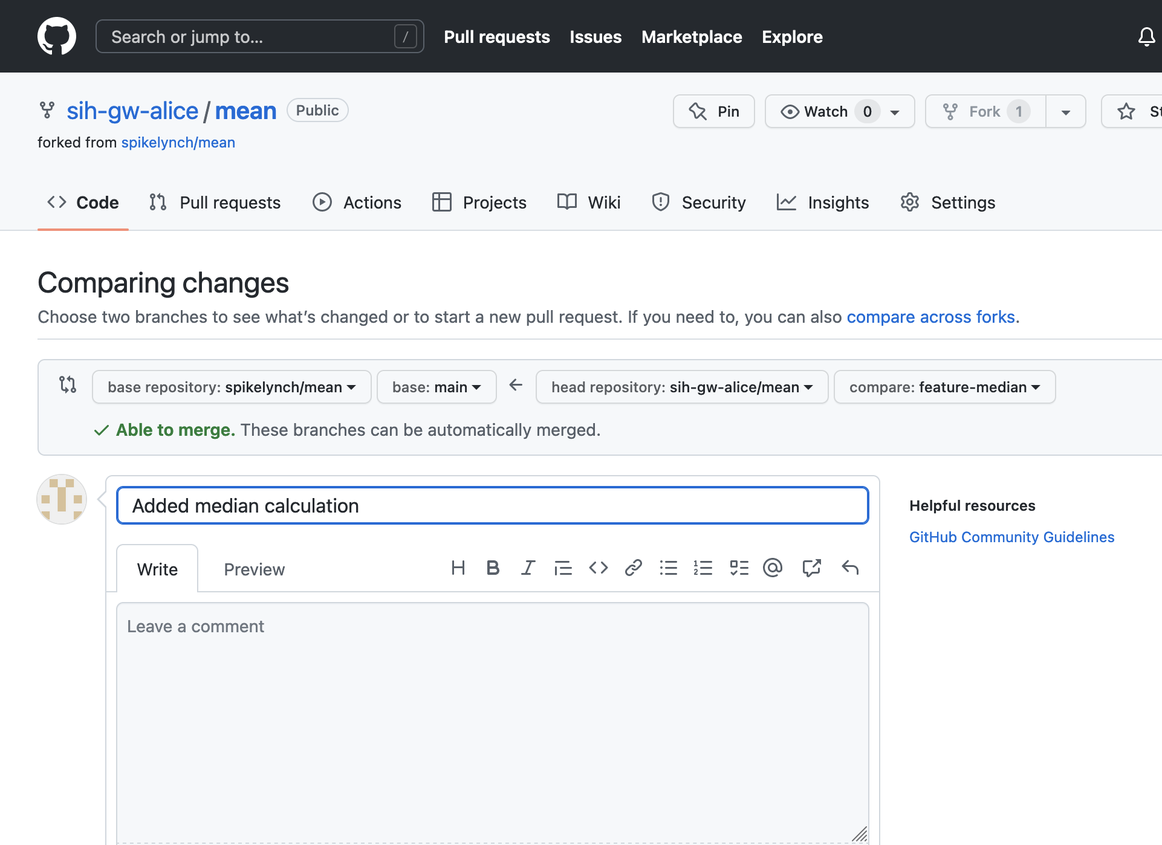
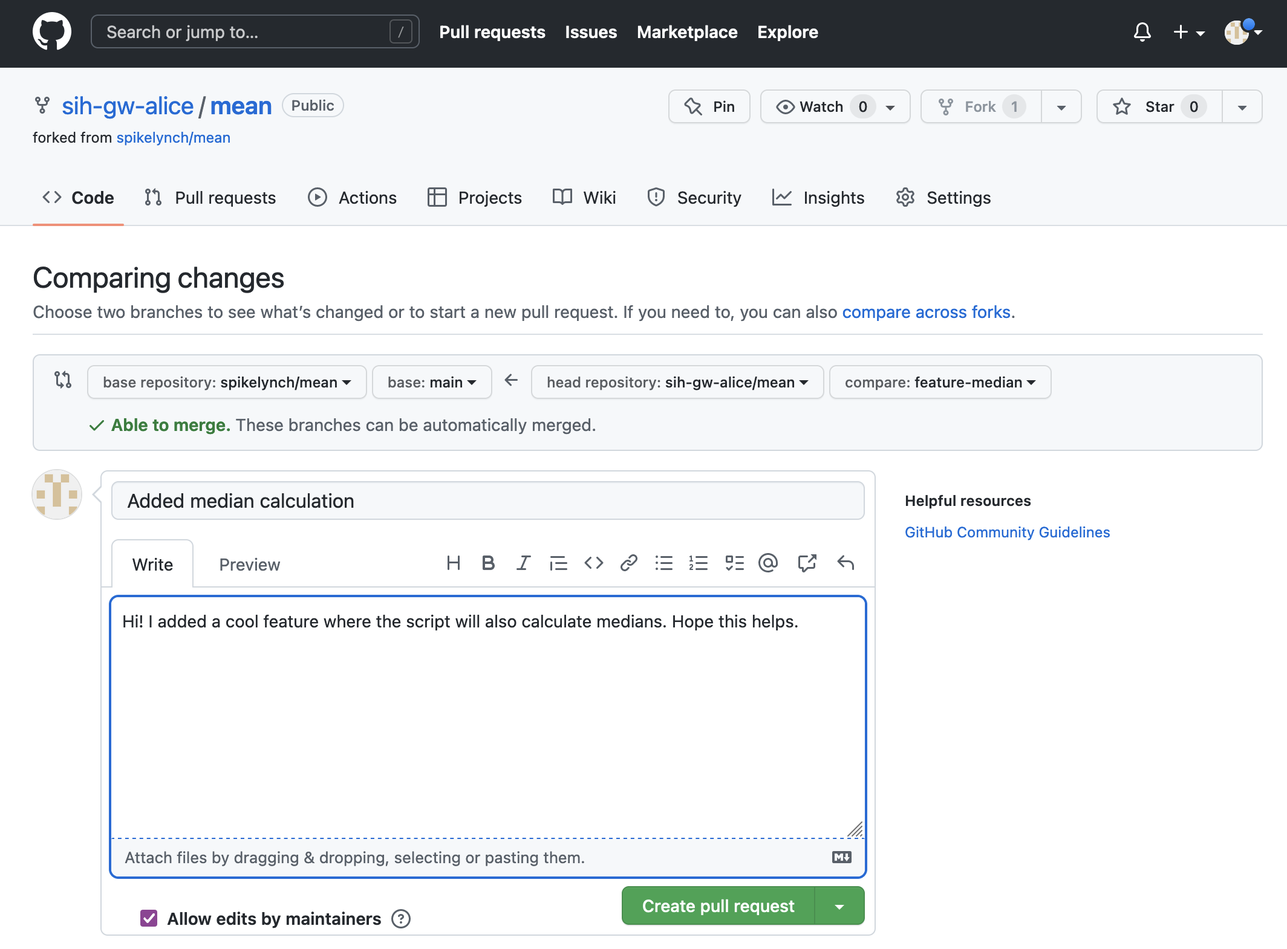
Fleshed out the text of the pull requests chapter and updated a screenshot which had the controls cropped out

diff --git a/docs/notebooks/13_pull_requests.html b/docs/notebooks/13_pull_requests.html
@@ -234,7 +234,6 @@ code span.wa { color: #60a0b0; font-weight: bold; font-style: italic; } /* Warni
   <li><a href="#questions" id="toc-questions" class="nav-link" data-scroll-target="#questions">Questions</a></li>
   <li><a href="#objectives" id="toc-objectives" class="nav-link" data-scroll-target="#objectives">Objectives</a></li>
   <li><a href="#key-points" id="toc-key-points" class="nav-link" data-scroll-target="#key-points">Key Points</a></li>
-  <li><a href="#outline-of-this-section" id="toc-outline-of-this-section" class="nav-link" data-scroll-target="#outline-of-this-section">Outline of this section</a></li>
   </ul></li>
   </ul>
 </nav>
@@ -268,117 +267,104 @@ code span.wa { color: #60a0b0; font-weight: bold; font-style: italic; } /* Warni
 </section>
 <p>We’ve just seen a branching workflow for allowing collaboration between a team of developers, each of whom has a local repo and who share a repo on GitHub.</p>
 <p>In this section, we’ll step through what’s called a fork-based workflow, which is a way to contribute code to another team’s project.</p>
-<p>A fork-based workflow has the following steps:</p>
-<ol type="1">
-<li><p>You fork the projects repo on GitHub - this is similar to cloning, but you’re creating a clone of the repo in your own GitHub account, not on your local machine.</p></li>
-<li><p>You create a local copy of your fork of the project</p></li>
-<li><p>You create a branch on your repo where you’ll work on the changes that you want to contribute</p></li>
-<li><p>You push your changes to your remote copy of the project’s repo</p></li>
-<li><p>On GitHub, you create a pull request for the maintainer of the original project</p></li>
-</ol>
-<p>It’s called a pull request because you’re asking the maintainer to pull your contribution into their version of the project.</p>
-<p>After you’ve made the pull request, the maintainer can accept it straight away, or start a form of collaboration to talk about the changes - this can take the form of a code review. We won’t have time to cover that in this workshop, but it’s a very common form of quality control for open source projects, and is also used within teams.</p>
-<section id="outline-of-this-section" class="level3">
-<h3 class="anchored" data-anchor-id="outline-of-this-section">Outline of this section</h3>
-<p><em>Note: check whether Bob will already have write access to Alice’s repo?</em></p>
-<ol type="1">
-<li>Bob creates a fork it</li>
-</ol>
+<p>We’ll do this exercise in pairs again, as we did for the first GitHub exercise, but this time we’ll imagine that Bob and Alice aren’t on the same team - instead, Bob wants to contribute a new feature to the <code>mean.py</code> script.</p>
+<p>Because Bob’s not part of Alice’s team, he won’t have write access to her repository, so he’ll have to create his own.</p>
+<p>Forking is the name for this process. It’s essentially the same as a clone, but it’s all happening on GitHub’s servers.</p>
+<p>To do this, Bob needs to visit Alice’s repository on GitHub, and click on the “Fork” button on the top right.</p>
 <div class="quarto-figure quarto-figure-center">
 <figure class="figure">
 <p><img src="../fig/pr01-fork-repository.png" class="img-fluid figure-img"></p>
 <p></p><figcaption class="figure-caption">Creating a Pull Request (Step 1)</figcaption><p></p>
 </figure>
 </div>
+<p>This will create a new version of the <code>mean</code> repository in Bob’s GitHub account</p>
 <div class="quarto-figure quarto-figure-center">
 <figure class="figure">
 <p><img src="../fig/pr02-new-fork.png" class="img-fluid figure-img"></p>
 <p></p><figcaption class="figure-caption">Creating a Pull Request (Step 2)</figcaption><p></p>
 </figure>
 </div>
-<ol start="2" type="1">
-<li>Bob starts a branch called <code>feature-median</code></li>
-</ol>
-<div class="sourceCode" id="cb1"><pre class="sourceCode sh code-with-copy"><code class="sourceCode bash"><span id="cb1-1"><a href="#cb1-1" aria-hidden="true" tabindex="-1"></a><span class="fu">git</span> checkout <span class="at">-b</span> feature-median</span></code><button title="Copy to Clipboard" class="code-copy-button"><i class="bi"></i></button></pre></div>
-<div class="sourceCode" id="cb2"><pre class="sourceCode abc code-with-copy"><code class="sourceCode abc"><span id="cb2-1"><a href="#cb2-1" aria-hidden="true" tabindex="-1"></a>Switched to a new branch 'feature-median'</span></code><button title="Copy to Clipboard" class="code-copy-button"><i class="bi"></i></button></pre></div>
-<ol start="3" type="1">
-<li>Bob makes a change to mean.py</li>
-</ol>
-<div class="sourceCode" id="cb3"><pre class="sourceCode sh code-with-copy"><code class="sourceCode bash"><span id="cb3-1"><a href="#cb3-1" aria-hidden="true" tabindex="-1"></a><span class="fu">nano</span> mean.py</span>
-<span id="cb3-2"><a href="#cb3-2" aria-hidden="true" tabindex="-1"></a><span class="fu">cat</span> mean.py</span></code><button title="Copy to Clipboard" class="code-copy-button"><i class="bi"></i></button></pre></div>
-<div class="sourceCode" id="cb4"><pre class="sourceCode abc code-with-copy"><code class="sourceCode abc"><span id="cb4-1"><a href="#cb4-1" aria-hidden="true" tabindex="-1"></a>import pandas as pd</span>
-<span id="cb4-2"><a href="#cb4-2" aria-hidden="true" tabindex="-1"></a>COLUMN=<span class="st">"red"</span></span>
-<span id="cb4-3"><a href="#cb4-3" aria-hidden="true" tabindex="-1"></a>dataframe = pd.read_csv<span class="dt">(</span><span class="st">"rgb.csv"</span><span class="dt">)</span></span>
-<span id="cb4-4"><a href="#cb4-4" aria-hidden="true" tabindex="-1"></a></span>
-<span id="cb4-5"><a href="#cb4-5" aria-hidden="true" tabindex="-1"></a>subset = dataframe<span class="ch">[</span>COLUMN<span class="ch">]</span></span>
-<span id="cb4-6"><a href="#cb4-6" aria-hidden="true" tabindex="-1"></a>print<span class="dt">(</span>subset.mean<span class="dt">())</span></span>
-<span id="cb4-7"><a href="#cb4-7" aria-hidden="true" tabindex="-1"></a>print<span class="dt">(</span>subset.median<span class="dt">())</span></span></code><button title="Copy to Clipboard" class="code-copy-button"><i class="bi"></i></button></pre></div>
-<div class="sourceCode" id="cb5"><pre class="sourceCode sh code-with-copy"><code class="sourceCode bash"><span id="cb5-1"><a href="#cb5-1" aria-hidden="true" tabindex="-1"></a><span class="fu">git</span> add mean.py</span>
-<span id="cb5-2"><a href="#cb5-2" aria-hidden="true" tabindex="-1"></a><span class="fu">git</span> commit mean.py <span class="at">-m</span> <span class="st">"Added median calculation"</span></span></code><button title="Copy to Clipboard" class="code-copy-button"><i class="bi"></i></button></pre></div>
-<div class="sourceCode" id="cb6"><pre class="sourceCode abc code-with-copy"><code class="sourceCode abc"><span id="cb6-1"><a href="#cb6-1" aria-hidden="true" tabindex="-1"></a><span class="ch">[</span>feature-median<span class="ch">]</span> f1ea0c1<span class="ch">]</span> Added median calculation</span>
-<span id="cb6-2"><a href="#cb6-2" aria-hidden="true" tabindex="-1"></a> 1 file changed, 2 insertions<span class="dt">(</span>+<span class="dt">)</span>, 2 deletions<span class="dt">(</span>-<span class="dt">)</span></span></code><button title="Copy to Clipboard" class="code-copy-button"><i class="bi"></i></button></pre></div>
-<ol start="5" type="1">
-<li>Bob pushes his change to GitHub</li>
-</ol>
-<div class="sourceCode" id="cb7"><pre class="sourceCode sh code-with-copy"><code class="sourceCode bash"><span id="cb7-1"><a href="#cb7-1" aria-hidden="true" tabindex="-1"></a><span class="fu">git</span> push</span></code><button title="Copy to Clipboard" class="code-copy-button"><i class="bi"></i></button></pre></div>
-<div class="sourceCode" id="cb8"><pre class="sourceCode abc code-with-copy"><code class="sourceCode abc"><span id="cb8-1"><a href="#cb8-1" aria-hidden="true" tabindex="-1"></a>fatal<span class="ch">:</span> The current branch feature-median has no upstream branch.</span>
-<span id="cb8-2"><a href="#cb8-2" aria-hidden="true" tabindex="-1"></a>To push the current branch and set the remote as upstream, use</span>
-<span id="cb8-3"><a href="#cb8-3" aria-hidden="true" tabindex="-1"></a></span>
-<span id="cb8-4"><a href="#cb8-4" aria-hidden="true" tabindex="-1"></a>    git push --set-upstream origin feature-median</span>
-<span id="cb8-5"><a href="#cb8-5" aria-hidden="true" tabindex="-1"></a></span>
-<span id="cb8-6"><a href="#cb8-6" aria-hidden="true" tabindex="-1"></a>To have this happen automatically for branches without a tracking</span>
-<span id="cb8-7"><a href="#cb8-7" aria-hidden="true" tabindex="-1"></a>upstream, see 'push.autoSetupRemote' in 'git help config'.</span></code><button title="Copy to Clipboard" class="code-copy-button"><i class="bi"></i></button></pre></div>
-<div class="sourceCode" id="cb9"><pre class="sourceCode sh code-with-copy"><code class="sourceCode bash"><span id="cb9-1"><a href="#cb9-1" aria-hidden="true" tabindex="-1"></a><span class="fu">git</span> push <span class="at">--set-upstream</span> origin feature-median</span></code><button title="Copy to Clipboard" class="code-copy-button"><i class="bi"></i></button></pre></div>
-<div class="sourceCode" id="cb10"><pre class="sourceCode abc code-with-copy"><code class="sourceCode abc"><span id="cb10-1"><a href="#cb10-1" aria-hidden="true" tabindex="-1"></a>Enumerating objects<span class="ch">:</span> 5, done.</span>
-<span id="cb10-2"><a href="#cb10-2" aria-hidden="true" tabindex="-1"></a>Counting objects<span class="ch">:</span> 100<span class="co">% (5/5), done.</span></span>
-<span id="cb10-3"><a href="#cb10-3" aria-hidden="true" tabindex="-1"></a>Delta compression using up to 12 threads</span>
-<span id="cb10-4"><a href="#cb10-4" aria-hidden="true" tabindex="-1"></a>Compressing objects<span class="ch">:</span> 100<span class="co">% (3/3), done.</span></span>
-<span id="cb10-5"><a href="#cb10-5" aria-hidden="true" tabindex="-1"></a>Writing objects<span class="ch">:</span> 100<span class="co">% (3/3), 311 bytes | 311.00 KiB/s, done.</span></span>
-<span id="cb10-6"><a href="#cb10-6" aria-hidden="true" tabindex="-1"></a>Total 3 <span class="dt">(</span>delta 2<span class="dt">)</span>, reused 0 <span class="dt">(</span>delta 0<span class="dt">)</span>, pack-reused 0</span>
-<span id="cb10-7"><a href="#cb10-7" aria-hidden="true" tabindex="-1"></a>remote<span class="ch">:</span> Resolving deltas<span class="ch">:</span> 100<span class="co">% (2/2), completed with 2 local objects.</span></span>
-<span id="cb10-8"><a href="#cb10-8" aria-hidden="true" tabindex="-1"></a>remote<span class="ch">:</span></span>
-<span id="cb10-9"><a href="#cb10-9" aria-hidden="true" tabindex="-1"></a>remote<span class="ch">:</span> Create a pull request for 'feature-median' on GitHub by visiting<span class="ch">:</span></span>
-<span id="cb10-10"><a href="#cb10-10" aria-hidden="true" tabindex="-1"></a>remote<span class="ch">:</span>      https<span class="ch">://</span>github.com/sih-gw-alice/mean/pull/new/feature-median</span>
-<span id="cb10-11"><a href="#cb10-11" aria-hidden="true" tabindex="-1"></a>remote<span class="ch">:</span></span>
-<span id="cb10-12"><a href="#cb10-12" aria-hidden="true" tabindex="-1"></a>To github.com<span class="ch">:sih-</span>gw-alice/mean.git</span>
-<span id="cb10-13"><a href="#cb10-13" aria-hidden="true" tabindex="-1"></a> * <span class="ch">[new</span> branch<span class="ch">]</span>      feature-median -&gt; feature-median</span>
-<span id="cb10-14"><a href="#cb10-14" aria-hidden="true" tabindex="-1"></a>branch 'feature-median' set up to track 'origin/feature-median'.</span></code><button title="Copy to Clipboard" class="code-copy-button"><i class="bi"></i></button></pre></div>
-<ol start="6" type="1">
-<li>Bob can now see his new branch on GitHub</li>
-</ol>
+<p>Bob can now clone his own repository to his local machine. We’ll put this copy in a directory called <code>fork-mean</code> to keep it separate from any other copies we’ve made</p>
+<div class="sourceCode" id="cb1"><pre class="sourceCode sh code-with-copy"><code class="sourceCode bash"><span id="cb1-1"><a href="#cb1-1" aria-hidden="true" tabindex="-1"></a><span class="fu">git</span> clone git@github.com:bob/mean.git ~/Desktop/fork-mean</span></code><button title="Copy to Clipboard" class="code-copy-button"><i class="bi"></i></button></pre></div>
+<p>Now Bob can start a new branch for development on his new feature, called <code>feature-median</code>:</p>
+<div class="sourceCode" id="cb2"><pre class="sourceCode sh code-with-copy"><code class="sourceCode bash"><span id="cb2-1"><a href="#cb2-1" aria-hidden="true" tabindex="-1"></a><span class="bu">cd</span> fork-mean</span>
+<span id="cb2-2"><a href="#cb2-2" aria-hidden="true" tabindex="-1"></a><span class="fu">git</span> checkout <span class="at">-b</span> feature-median</span></code><button title="Copy to Clipboard" class="code-copy-button"><i class="bi"></i></button></pre></div>
+<div class="sourceCode" id="cb3"><pre class="sourceCode abc code-with-copy"><code class="sourceCode abc"><span id="cb3-1"><a href="#cb3-1" aria-hidden="true" tabindex="-1"></a>Switched to a new branch 'feature-median'</span></code><button title="Copy to Clipboard" class="code-copy-button"><i class="bi"></i></button></pre></div>
+<p>Once he’s create the new branch, he can make his edits to <code>mean.py</code></p>
+<div class="sourceCode" id="cb4"><pre class="sourceCode sh code-with-copy"><code class="sourceCode bash"><span id="cb4-1"><a href="#cb4-1" aria-hidden="true" tabindex="-1"></a><span class="fu">nano</span> mean.py</span>
+<span id="cb4-2"><a href="#cb4-2" aria-hidden="true" tabindex="-1"></a><span class="fu">cat</span> mean.py</span></code><button title="Copy to Clipboard" class="code-copy-button"><i class="bi"></i></button></pre></div>
+<div class="sourceCode" id="cb5"><pre class="sourceCode abc code-with-copy"><code class="sourceCode abc"><span id="cb5-1"><a href="#cb5-1" aria-hidden="true" tabindex="-1"></a>import pandas as pd</span>
+<span id="cb5-2"><a href="#cb5-2" aria-hidden="true" tabindex="-1"></a>COLUMN=<span class="st">"red"</span></span>
+<span id="cb5-3"><a href="#cb5-3" aria-hidden="true" tabindex="-1"></a>dataframe = pd.read_csv<span class="dt">(</span><span class="st">"rgb.csv"</span><span class="dt">)</span></span>
+<span id="cb5-4"><a href="#cb5-4" aria-hidden="true" tabindex="-1"></a></span>
+<span id="cb5-5"><a href="#cb5-5" aria-hidden="true" tabindex="-1"></a>subset = dataframe<span class="ch">[</span>COLUMN<span class="ch">]</span></span>
+<span id="cb5-6"><a href="#cb5-6" aria-hidden="true" tabindex="-1"></a>print<span class="dt">(</span>subset.mean<span class="dt">())</span></span>
+<span id="cb5-7"><a href="#cb5-7" aria-hidden="true" tabindex="-1"></a>print<span class="dt">(</span>subset.median<span class="dt">())</span></span></code><button title="Copy to Clipboard" class="code-copy-button"><i class="bi"></i></button></pre></div>
+<p>And add and commit the changes as usual:</p>
+<div class="sourceCode" id="cb6"><pre class="sourceCode sh code-with-copy"><code class="sourceCode bash"><span id="cb6-1"><a href="#cb6-1" aria-hidden="true" tabindex="-1"></a><span class="fu">git</span> add mean.py</span>
+<span id="cb6-2"><a href="#cb6-2" aria-hidden="true" tabindex="-1"></a><span class="fu">git</span> commit mean.py <span class="at">-m</span> <span class="st">"Added median calculation"</span></span></code><button title="Copy to Clipboard" class="code-copy-button"><i class="bi"></i></button></pre></div>
+<div class="sourceCode" id="cb7"><pre class="sourceCode abc code-with-copy"><code class="sourceCode abc"><span id="cb7-1"><a href="#cb7-1" aria-hidden="true" tabindex="-1"></a><span class="ch">[</span>feature-median<span class="ch">]</span> f1ea0c1<span class="ch">]</span> Added median calculation</span>
+<span id="cb7-2"><a href="#cb7-2" aria-hidden="true" tabindex="-1"></a> 1 file changed, 2 insertions<span class="dt">(</span>+<span class="dt">)</span>, 2 deletions<span class="dt">(</span>-<span class="dt">)</span></span></code><button title="Copy to Clipboard" class="code-copy-button"><i class="bi"></i></button></pre></div>
+<p>Bob now has his new, median-enabled version of the script on his feature branch. To create a pull request, the first thing he does is push it to his fork of the repository.</p>
+<div class="sourceCode" id="cb8"><pre class="sourceCode sh code-with-copy"><code class="sourceCode bash"><span id="cb8-1"><a href="#cb8-1" aria-hidden="true" tabindex="-1"></a><span class="fu">git</span> push</span></code><button title="Copy to Clipboard" class="code-copy-button"><i class="bi"></i></button></pre></div>
+<div class="sourceCode" id="cb9"><pre class="sourceCode abc code-with-copy"><code class="sourceCode abc"><span id="cb9-1"><a href="#cb9-1" aria-hidden="true" tabindex="-1"></a>fatal<span class="ch">:</span> The current branch feature-median has no upstream branch.</span>
+<span id="cb9-2"><a href="#cb9-2" aria-hidden="true" tabindex="-1"></a>To push the current branch and set the remote as upstream, use</span>
+<span id="cb9-3"><a href="#cb9-3" aria-hidden="true" tabindex="-1"></a></span>
+<span id="cb9-4"><a href="#cb9-4" aria-hidden="true" tabindex="-1"></a>    git push --set-upstream origin feature-median</span>
+<span id="cb9-5"><a href="#cb9-5" aria-hidden="true" tabindex="-1"></a></span>
+<span id="cb9-6"><a href="#cb9-6" aria-hidden="true" tabindex="-1"></a>To have this happen automatically for branches without a tracking</span>
+<span id="cb9-7"><a href="#cb9-7" aria-hidden="true" tabindex="-1"></a>upstream, see 'push.autoSetupRemote' in 'git help config'.</span></code><button title="Copy to Clipboard" class="code-copy-button"><i class="bi"></i></button></pre></div>
+<p>Oh - that’s right, we need to tell Git to set an upstream for our feature branch, as it doesn’t exist on GitHub yet.</p>
+<div class="sourceCode" id="cb10"><pre class="sourceCode sh code-with-copy"><code class="sourceCode bash"><span id="cb10-1"><a href="#cb10-1" aria-hidden="true" tabindex="-1"></a><span class="fu">git</span> push <span class="at">--set-upstream</span> origin feature-median</span></code><button title="Copy to Clipboard" class="code-copy-button"><i class="bi"></i></button></pre></div>
+<div class="sourceCode" id="cb11"><pre class="sourceCode abc code-with-copy"><code class="sourceCode abc"><span id="cb11-1"><a href="#cb11-1" aria-hidden="true" tabindex="-1"></a>Enumerating objects<span class="ch">:</span> 5, done.</span>
+<span id="cb11-2"><a href="#cb11-2" aria-hidden="true" tabindex="-1"></a>Counting objects<span class="ch">:</span> 100<span class="co">% (5/5), done.</span></span>
+<span id="cb11-3"><a href="#cb11-3" aria-hidden="true" tabindex="-1"></a>Delta compression using up to 12 threads</span>
+<span id="cb11-4"><a href="#cb11-4" aria-hidden="true" tabindex="-1"></a>Compressing objects<span class="ch">:</span> 100<span class="co">% (3/3), done.</span></span>
+<span id="cb11-5"><a href="#cb11-5" aria-hidden="true" tabindex="-1"></a>Writing objects<span class="ch">:</span> 100<span class="co">% (3/3), 311 bytes | 311.00 KiB/s, done.</span></span>
+<span id="cb11-6"><a href="#cb11-6" aria-hidden="true" tabindex="-1"></a>Total 3 <span class="dt">(</span>delta 2<span class="dt">)</span>, reused 0 <span class="dt">(</span>delta 0<span class="dt">)</span>, pack-reused 0</span>
+<span id="cb11-7"><a href="#cb11-7" aria-hidden="true" tabindex="-1"></a>remote<span class="ch">:</span> Resolving deltas<span class="ch">:</span> 100<span class="co">% (2/2), completed with 2 local objects.</span></span>
+<span id="cb11-8"><a href="#cb11-8" aria-hidden="true" tabindex="-1"></a>remote<span class="ch">:</span></span>
+<span id="cb11-9"><a href="#cb11-9" aria-hidden="true" tabindex="-1"></a>remote<span class="ch">:</span> Create a pull request for 'feature-median' on GitHub by visiting<span class="ch">:</span></span>
+<span id="cb11-10"><a href="#cb11-10" aria-hidden="true" tabindex="-1"></a>remote<span class="ch">:</span>      https<span class="ch">://</span>github.com/sih-gw-alice/mean/pull/new/feature-median</span>
+<span id="cb11-11"><a href="#cb11-11" aria-hidden="true" tabindex="-1"></a>remote<span class="ch">:</span></span>
+<span id="cb11-12"><a href="#cb11-12" aria-hidden="true" tabindex="-1"></a>To github.com<span class="ch">:sih-</span>gw-alice/mean.git</span>
+<span id="cb11-13"><a href="#cb11-13" aria-hidden="true" tabindex="-1"></a> * <span class="ch">[new</span> branch<span class="ch">]</span>      feature-median -&gt; feature-median</span>
+<span id="cb11-14"><a href="#cb11-14" aria-hidden="true" tabindex="-1"></a>branch 'feature-median' set up to track 'origin/feature-median'.</span></code><button title="Copy to Clipboard" class="code-copy-button"><i class="bi"></i></button></pre></div>
+<p>That’s pushed Bob’s changes to GitHub and created a new branch. Notice that GitHub is prompting us to create a pull request for this branch already, and has even provided us with a URL to visit. Note that this is a message from GitHub (this is what the <code>remote:</code> text means) rather than Git itself.</p>
+<p>If we go to Bob’s GitHub, the new branch is there, and the frontend has noticed recent changes and is prompting us to “Compare &amp; pull request”.</p>
 <div class="quarto-figure quarto-figure-center">
 <figure class="figure">
 <p><img src="../fig/pr03-new-changes-pushed.png" class="img-fluid figure-img"></p>
 <p></p><figcaption class="figure-caption">Creating a Pull Request (Step 3)</figcaption><p></p>
 </figure>
 </div>
-<ol start="8" type="1">
-<li>Bob creates a pull request based on his <code>feature-median</code> branch</li>
-</ol>
+<p>A pull request is exactly that - we’re telling the maintainer of a project - Alice, in this case - that we have something like a bug fix or a feature on our branch of the repository, and we want them to pull it into the main branch of the project.</p>
+<p>If Bob clicks the “Compare &amp; pull request” button, he is taken to this page</p>
 <div class="quarto-figure quarto-figure-center">
 <figure class="figure">
 <p><img src="../fig/pr04-compare-changes.png" class="img-fluid figure-img"></p>
 <p></p><figcaption class="figure-caption">Creating a Pull Request (Step 4)</figcaption><p></p>
 </figure>
 </div>
-<ol start="9" type="1">
-<li>Alice confirms to see if the pull request is there</li>
-</ol>
+<p>This allows Bob to pick which repository and branches he wants to compare, and GitHub decides whether the branches can be merged automatically, or if there’s a conflict. In this case, there’s no conflict between Bob’s branch and the main branch of Alice’s repo.</p>
+<p>Bob creates his pull request by adding some notes explaining his PR, and clicking the “Create pull request” button.</p>
+<p>If Alice or another of her project team visit their repository, they’ll notice that the “Pull requests” item is highlighted, and if they click it, they should see Bob’s pull request in the list.</p>
 <div class="quarto-figure quarto-figure-center">
 <figure class="figure">
 <p><img src="../fig/pr05-pull-request-list.png" class="img-fluid figure-img"></p>
 <p></p><figcaption class="figure-caption">Creating a Pull Request (Step 5)</figcaption><p></p>
 </figure>
 </div>
+<p>Clicking the pull request title takes Alice through to a page for the pull request, which shows Bob’s comments, and a lot of other ways to explore the pull request - she can see the list of commits, the files which have been changed, and so on.</p>
+<p>It’s very common for projects to have continuous integration, or CI, set up on GitHub - this will run tests automatically on pull requests or particular branches, and the ‘Checks’ tab is where Alice could see whether those tests had passed or not.</p>
+<p>Our repo hasn’t had CI set up, so GitHub reminds us about it.</p>
 <div class="quarto-figure quarto-figure-center">
 <figure class="figure">
 <p><img src="../fig/pr06-merge-pull-request.png" class="img-fluid figure-img"></p>
 <p></p><figcaption class="figure-caption">Creating a Pull Request (Step 6)</figcaption><p></p>
 </figure>
 </div>
-<ol start="10" type="1">
-<li>Alice can now merge Bob’s feature branch into the main of her version</li>
-</ol>
+<p>As there are no conflicts with the base branch, Alice can merge the changes.</p>
 <div class="quarto-figure quarto-figure-center">
 <figure class="figure">
 <p><img src="../fig/pr07-pull-request-merged.png" class="img-fluid figure-img"></p>
@@ -389,9 +375,10 @@ code span.wa { color: #60a0b0; font-weight: bold; font-style: italic; } /* Warni
 <p>It’s also possible for the changes on a pull request to conflict with the main branch - the two could have divergent history. In this case, GitHub will indicate this to the maintainer, and provides an interface for showing each of the conflicts, and also for resolving them via the web interface.</p>
 <p>There are other ways to handle this situation - the maintainer could ask the contributor to pull the latest updates from main and resolve the conflicts at their end. How this is handled will depend a lot on the particular project being contributed to.</p>
 <p>Large open-source projects tend to have a lot of structure around pull requests: they will, for instance, provide a checklist of things contributors should do when contributing code: require that PRs be raised against an existing issue, provide a template for issues and/or PR comments, and so on.</p>
+<p>A pull request can be seen as the start of a collaboration between a developer and the maintainer - this can take the form of comments on the PR, or a more detailed kind of collaboration called a code review, which GitHub has a very good interface for - this allows a maintainer to add comments or questions to each individual change in a PR.</p>
+<p>This isn’t just used for open-source projects - many teams use pull requests and code review internally as an important form of quality control.</p>
 
 
-</section>
 </section>
 
 <p>All materials copyright Sydney Informatics Hub, University of Sydney</p></main> <!-- /main -->

diff --git a/notebooks/13_pull_requests.md b/notebooks/13_pull_requests.md
@@ -33,45 +33,38 @@ of developers, each of whom has a local repo and who share a repo on GitHub.
 In this section, we'll step through what's called a fork-based workflow, which
 is a way to contribute code to another team's project.
 
-A fork-based workflow has the following steps:
+We'll do this exercise in pairs again, as we did for the first GitHub exercise,
+but this time we'll imagine that Bob and Alice aren't on the same team - instead,
+Bob wants to contribute a new feature to the `mean.py` script.
 
-1. You fork the projects repo on GitHub - this is similar to cloning, but you're
-creating a clone of the repo in your own GitHub account, not on your local machine.
+Because Bob's not part of Alice's team, he won't have write access to her
+repository, so he'll have to create his own.
 
-2. You create a local copy of your fork of the project
+Forking is the name for this process. It's essentially the same as a clone, but
+it's all happening on GitHub's servers.
 
-3. You create a branch on your repo where you'll work on the changes that you
-want to contribute
-
-4. You push your changes to your remote copy of the project's repo
-
-5. On GitHub, you create a pull request for the maintainer of the original
-project
-
-It's called a pull request because you're asking the maintainer to pull your
-contribution into their version of the project.
-
-After you've made the pull request, the maintainer can accept it straight away,
-or start a form of collaboration to talk about the changes - this can take the 
-form of a code review. We won't have time to cover that in this workshop, but
-it's a very common form of quality control for open source projects, and is
-also used within teams.
-
-### Outline of this section
-
-*Note: check whether Bob will already have write access to Alice's repo?*
-
-1. Bob creates a fork it
+To do this, Bob needs to visit Alice's repository on GitHub, and click on 
+the "Fork" button on the top right.
 
 ![Creating a Pull Request (Step 1)](../fig/pr01-fork-repository.png)
 
+This will create a new version of the `mean` repository in Bob's GitHub account
+
 ![Creating a Pull Request (Step 2)](../fig/pr02-new-fork.png)
 
-
-2. Bob starts a branch called `feature-median`
-
+Bob can now clone his own repository to his local machine. We'll put this 
+copy in a directory called `fork-mean` to keep it separate from any other
+copies we've made 
 
 ```sh
+git clone git@github.com:bob/mean.git ~/Desktop/fork-mean
+```
+
+Now Bob can start a new branch for development on his new feature, called
+`feature-median`:
+
+```sh
+cd fork-mean
 git checkout -b feature-median
 ```
 
@@ -79,7 +72,7 @@ git checkout -b feature-median
 Switched to a new branch 'feature-median'
 ```
 
-3. Bob makes a change to mean.py 
+Once he's create the new branch, he can make his edits to `mean.py`
 
 ```sh
 nano mean.py
@@ -96,6 +89,8 @@ print(subset.mean())
 print(subset.median())
 ```
 
+And add and commit the changes as usual:
+
 ```sh
 git add mean.py
 git commit mean.py -m "Added median calculation"
@@ -106,8 +101,9 @@ git commit mean.py -m "Added median calculation"
  1 file changed, 2 insertions(+), 2 deletions(-)
 ```
 
-
-5. Bob pushes his change to GitHub
+Bob now has his new, median-enabled version of the script on his feature branch.
+To create a pull request, the first thing he does is push it to his fork of
+the repository.
 
 ```sh
 git push
@@ -122,6 +118,9 @@ To push the current branch and set the remote as upstream, use
 To have this happen automatically for branches without a tracking
 upstream, see 'push.autoSetupRemote' in 'git help config'.
 ```
+
+Oh - that's right, we need to tell Git to set an upstream for our feature 
+branch, as it doesn't exist on GitHub yet.
 
 ```sh
 git push --set-upstream origin feature-median
@@ -144,21 +143,54 @@ To github.com:sih-gw-alice/mean.git
 branch 'feature-median' set up to track 'origin/feature-median'.
 ```
 
-6. Bob can now see his new branch on GitHub
+That's pushed Bob's changes to GitHub and created a new branch. Notice that
+GitHub is prompting us to create a pull request for this branch already, and has
+even provided us with a URL to visit. Note that this is a message from GitHub
+(this is what the `remote:` text means) rather than Git itself.
+
+If we go to Bob's GitHub, the new branch is there, and the frontend has noticed
+recent changes and is prompting us to "Compare & pull request".
 
 ![Creating a Pull Request (Step 3)](../fig/pr03-new-changes-pushed.png)
 
-8. Bob creates a pull request based on his `feature-median` branch 
+A pull request is exactly that - we're telling the maintainer of a project - 
+Alice, in this case - that we have something like a bug fix or a feature on
+our branch of the repository, and we want them to pull it into the main
+branch of the project.
+
+If Bob clicks the "Compare & pull request" button, he is taken to this page
 
 ![Creating a Pull Request (Step 4)](../fig/pr04-compare-changes.png)
 
-9. Alice confirms to see if the pull request is there
+This allows Bob to pick which repository and branches he wants to compare, 
+and GitHub decides whether the branches can be merged automatically, or if
+there's a conflict. In this case, there's no conflict between Bob's branch
+and the main branch of Alice's repo.
+
+Bob creates his pull request by adding some notes explaining his PR, and clicking
+the "Create pull request" button.
+
+If Alice or another of her project team visit their repository, they'll notice
+that the "Pull requests" item is highlighted, and if they click it, they
+should see Bob's pull request in the list.
 
 ![Creating a Pull Request (Step 5)](../fig/pr05-pull-request-list.png)
 
+Clicking the pull request title takes Alice through to a page for the pull
+request, which shows Bob's comments, and a lot of other ways to explore the
+pull request - she can see the list of commits, the files which have been
+changed, and so on.
+
+It's very common for projects to have continuous integration, or CI, set up on 
+GitHub - this will run tests automatically on pull requests or particular
+branches, and the 'Checks' tab is where Alice could see whether those tests
+had passed or not.
+
+Our repo hasn't had CI set up, so GitHub reminds us about it.
+
 ![Creating a Pull Request (Step 6)](../fig/pr06-merge-pull-request.png)
 
-10. Alice can now merge Bob's feature branch into the main of her version
+As there are no conflicts with the base branch, Alice can merge the changes.
 
 ![Creating a Pull Request (Step 7)](../fig/pr07-pull-request-merged.png)
 
@@ -181,3 +213,11 @@ they will, for instance, provide a checklist of things contributors should do
 when contributing code: require that PRs be raised against an existing issue,
 provide a template for issues and/or PR comments, and so on.
 
+A pull request can be seen as the start of a collaboration between a developer
+and the maintainer - this can take the form of comments on the PR, or a more
+detailed kind of collaboration called a code review, which GitHub has a very
+good interface for - this allows a maintainer to add comments or questions to
+each individual change in a PR.
+
+This isn't just used for open-source projects - many teams use pull requests
+and code review internally as an important form of quality control.
